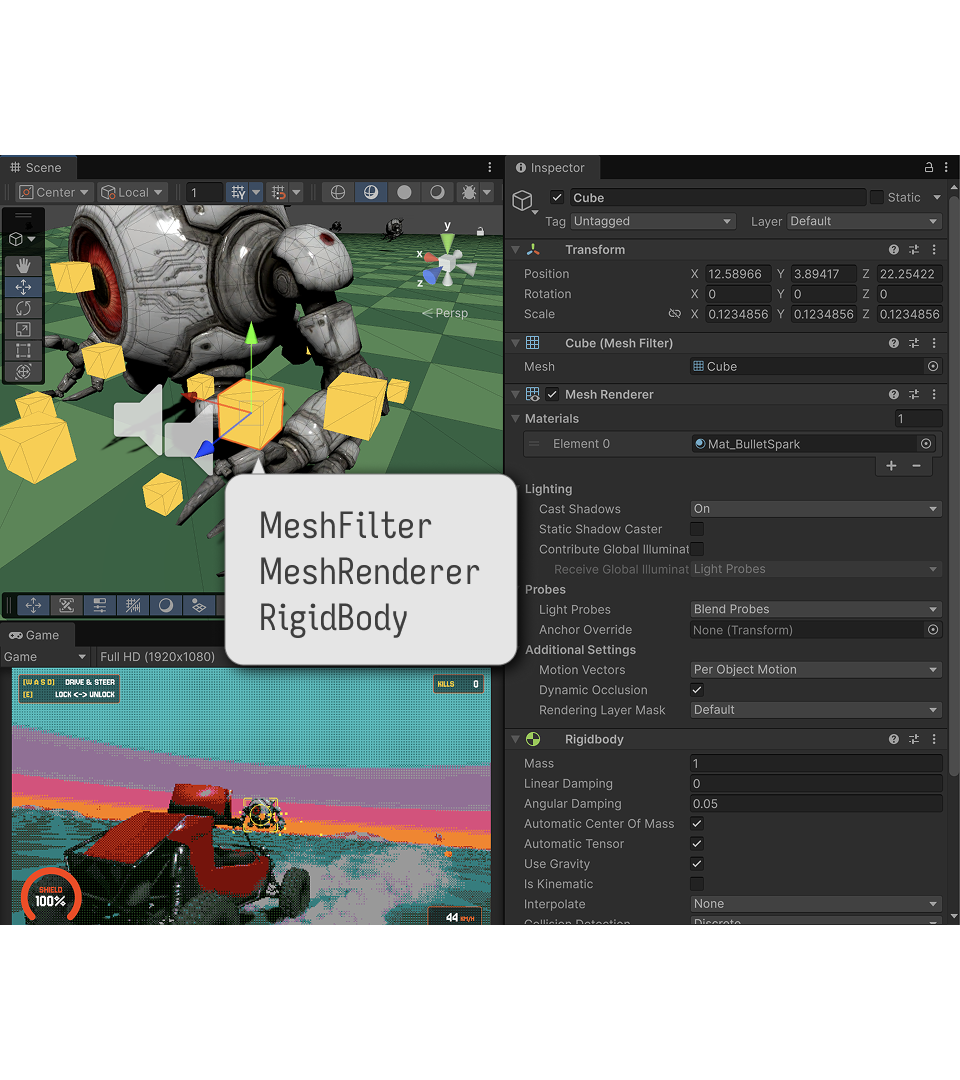
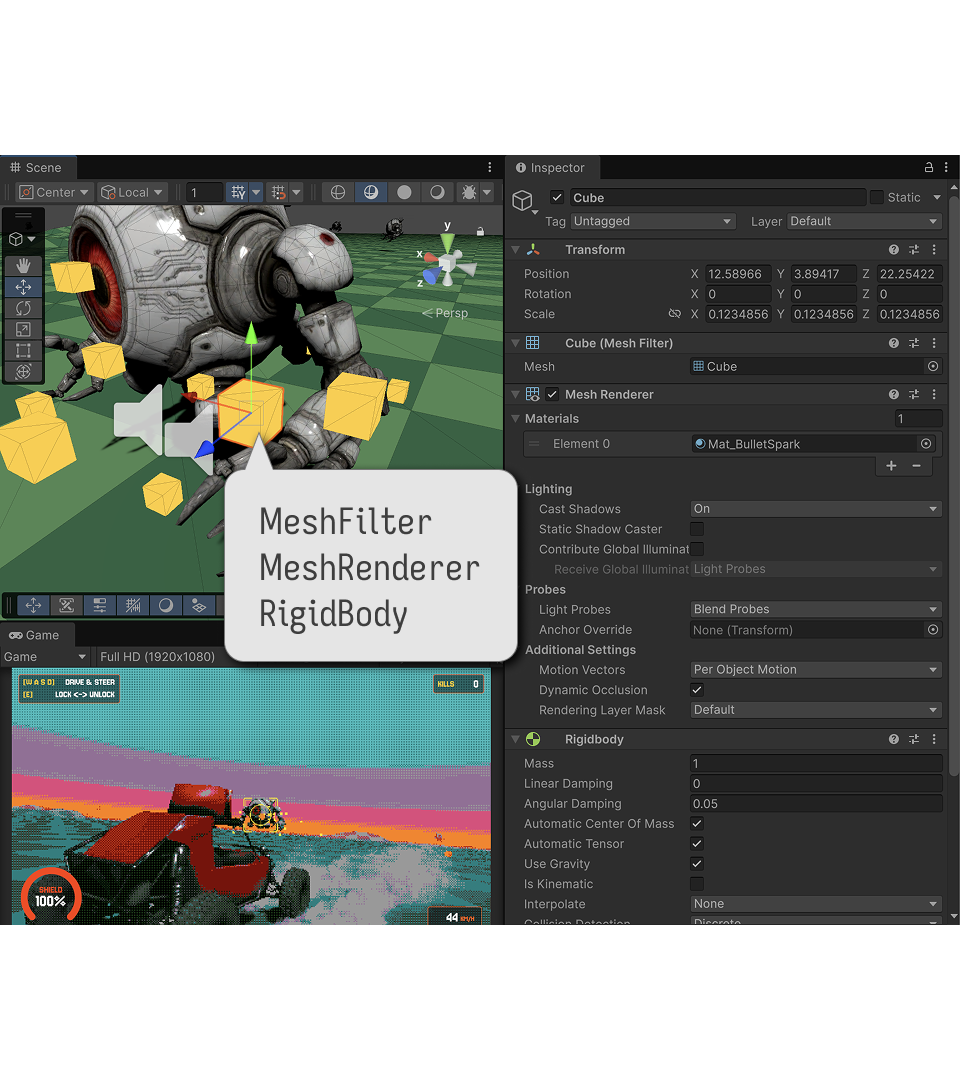
Drift Mayhem images and videos

Changed region(s): [[0.2188, 0.3972, 0.5312, 0.6417]]

diff --git a/slides.md b/slides.md
@@ -171,6 +171,8 @@ image: /dm-shader-reflection.jpg
 -->
 
 ---
+layout: two-cols-video
+---
 
 # 車の挙動の作り込み
 
@@ -190,6 +192,12 @@ image: /dm-shader-reflection.jpg
 
 - 敢えて物理挙動を使うよう指示
 
+::right::
+
+<SlidevVideo muted autoplay loop>
+  <source src="/dm-physics-arcade-style.mp4" type="video/mp4" />
+</SlidevVideo>
+
 <!--
 さて、次に車の挙動の作り込みを行いました。実は、AI エージェントは最初のプロトタイプとして、擬似物理、いわゆるアーケードスタイルの挙動を実装してきたんですよね。車輪のシミュレーションを行わず、単一の rigid body で擬似的に車の動きを表現する、というものです。
 
@@ -204,7 +212,7 @@ image: /dm-shader-reflection.jpg
 
 ---
 layout: video
-video: /dm-test.mp4
+video: /dm-drift-prototype.mp4
 ---
 
 # ドリフト挙動の初期実装
@@ -215,7 +223,7 @@ video: /dm-test.mp4
 
 ---
 layout: video
-video: /dm-test.mp4
+video: /dm-drift-rework.mp4
 ---
 
 # ドリフト挙動の改良
@@ -229,8 +237,12 @@ video: /dm-test.mp4
 -->
 
 ---
-layout: image-right
-image: /Title_Heroes.png
+layout: video
+video: /dm-drift-finished.mp4
+---
+
+# ドリフト挙動の改良
+
 ---
 
 # Unity Default の効果